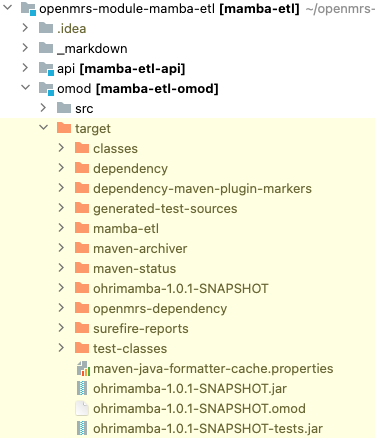
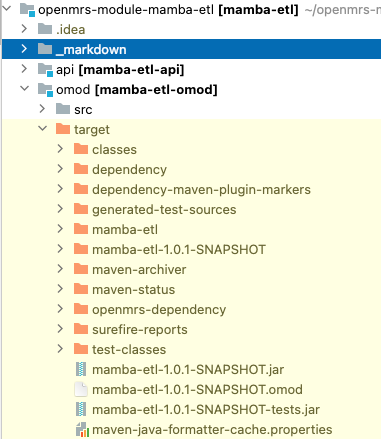
Format

Changed region(s): [[0.0, 0.0, 1.0, 1.0], [0.0, 0.2665, 0.0293, 0.2961]]

diff --git a/api/src/main/java/org/openmrs/module/mambaetl/MambaETLActivator.java b/api/src/main/java/org/openmrs/module/mambaetl/MambaETLActivator.java
@@ -32,7 +32,7 @@ public class MambaETLActivator extends BaseModuleActivator {
 	@Override
 	public void stopped() {
 		log.info("Stopped MambaETL Reference Module");
-
+		
 		Context.getService(FlattenDatabaseService.class).shutdownEtlThread();
 		super.stopped();
 	}

diff --git a/README.md b/README.md
@@ -160,7 +160,7 @@ However, for this to work a few steps need to be taken:
             Specifies the interval, in seconds, at which the ETL should run. For example, setting _mambaetl.analysis.etl_interval=180_ means the ETL will run every 3 minutes.
 
 3. Upload/Deploy the MambaETL module to your OpenMRS instance
-   Locate the omod(openmrs module) file from mambaetl project in the target folder 
+   Locate the omod(mamba-etl-1.0.1-SNAPSHOT.omod) file from mambaetl project in the target folder 
 
    ![location-of-omod.png](_markdown%2Flocation-of-omod.png)
     
@@ -196,11 +196,11 @@ However, for this to work a few steps need to be taken:
 
    <span style='color: red'>step 4: Locate the .omod file</span>
    
-   In the target directory, you will find the ohrimamba-1.0.1-SNAPSHOT.omod file. You can list the files in this directory using
+   In the target directory, you will find the mamba-etl-1.0.1-SNAPSHOT.omod file. You can list the files in this directory using
 
             `ls`
    
-   You should see the .omod file (ohrimamba-1.0.1-SNAPSHOT.omod) listed, along with other files such as .jar files and test outputs.
+   You should see the .omod file (mamba-etl-1.0.1-SNAPSHOT.omod) listed, along with other files such as .jar files and test outputs.
 
    <span style='color: red'>step 5: Deploy the .omod file</span>
    
